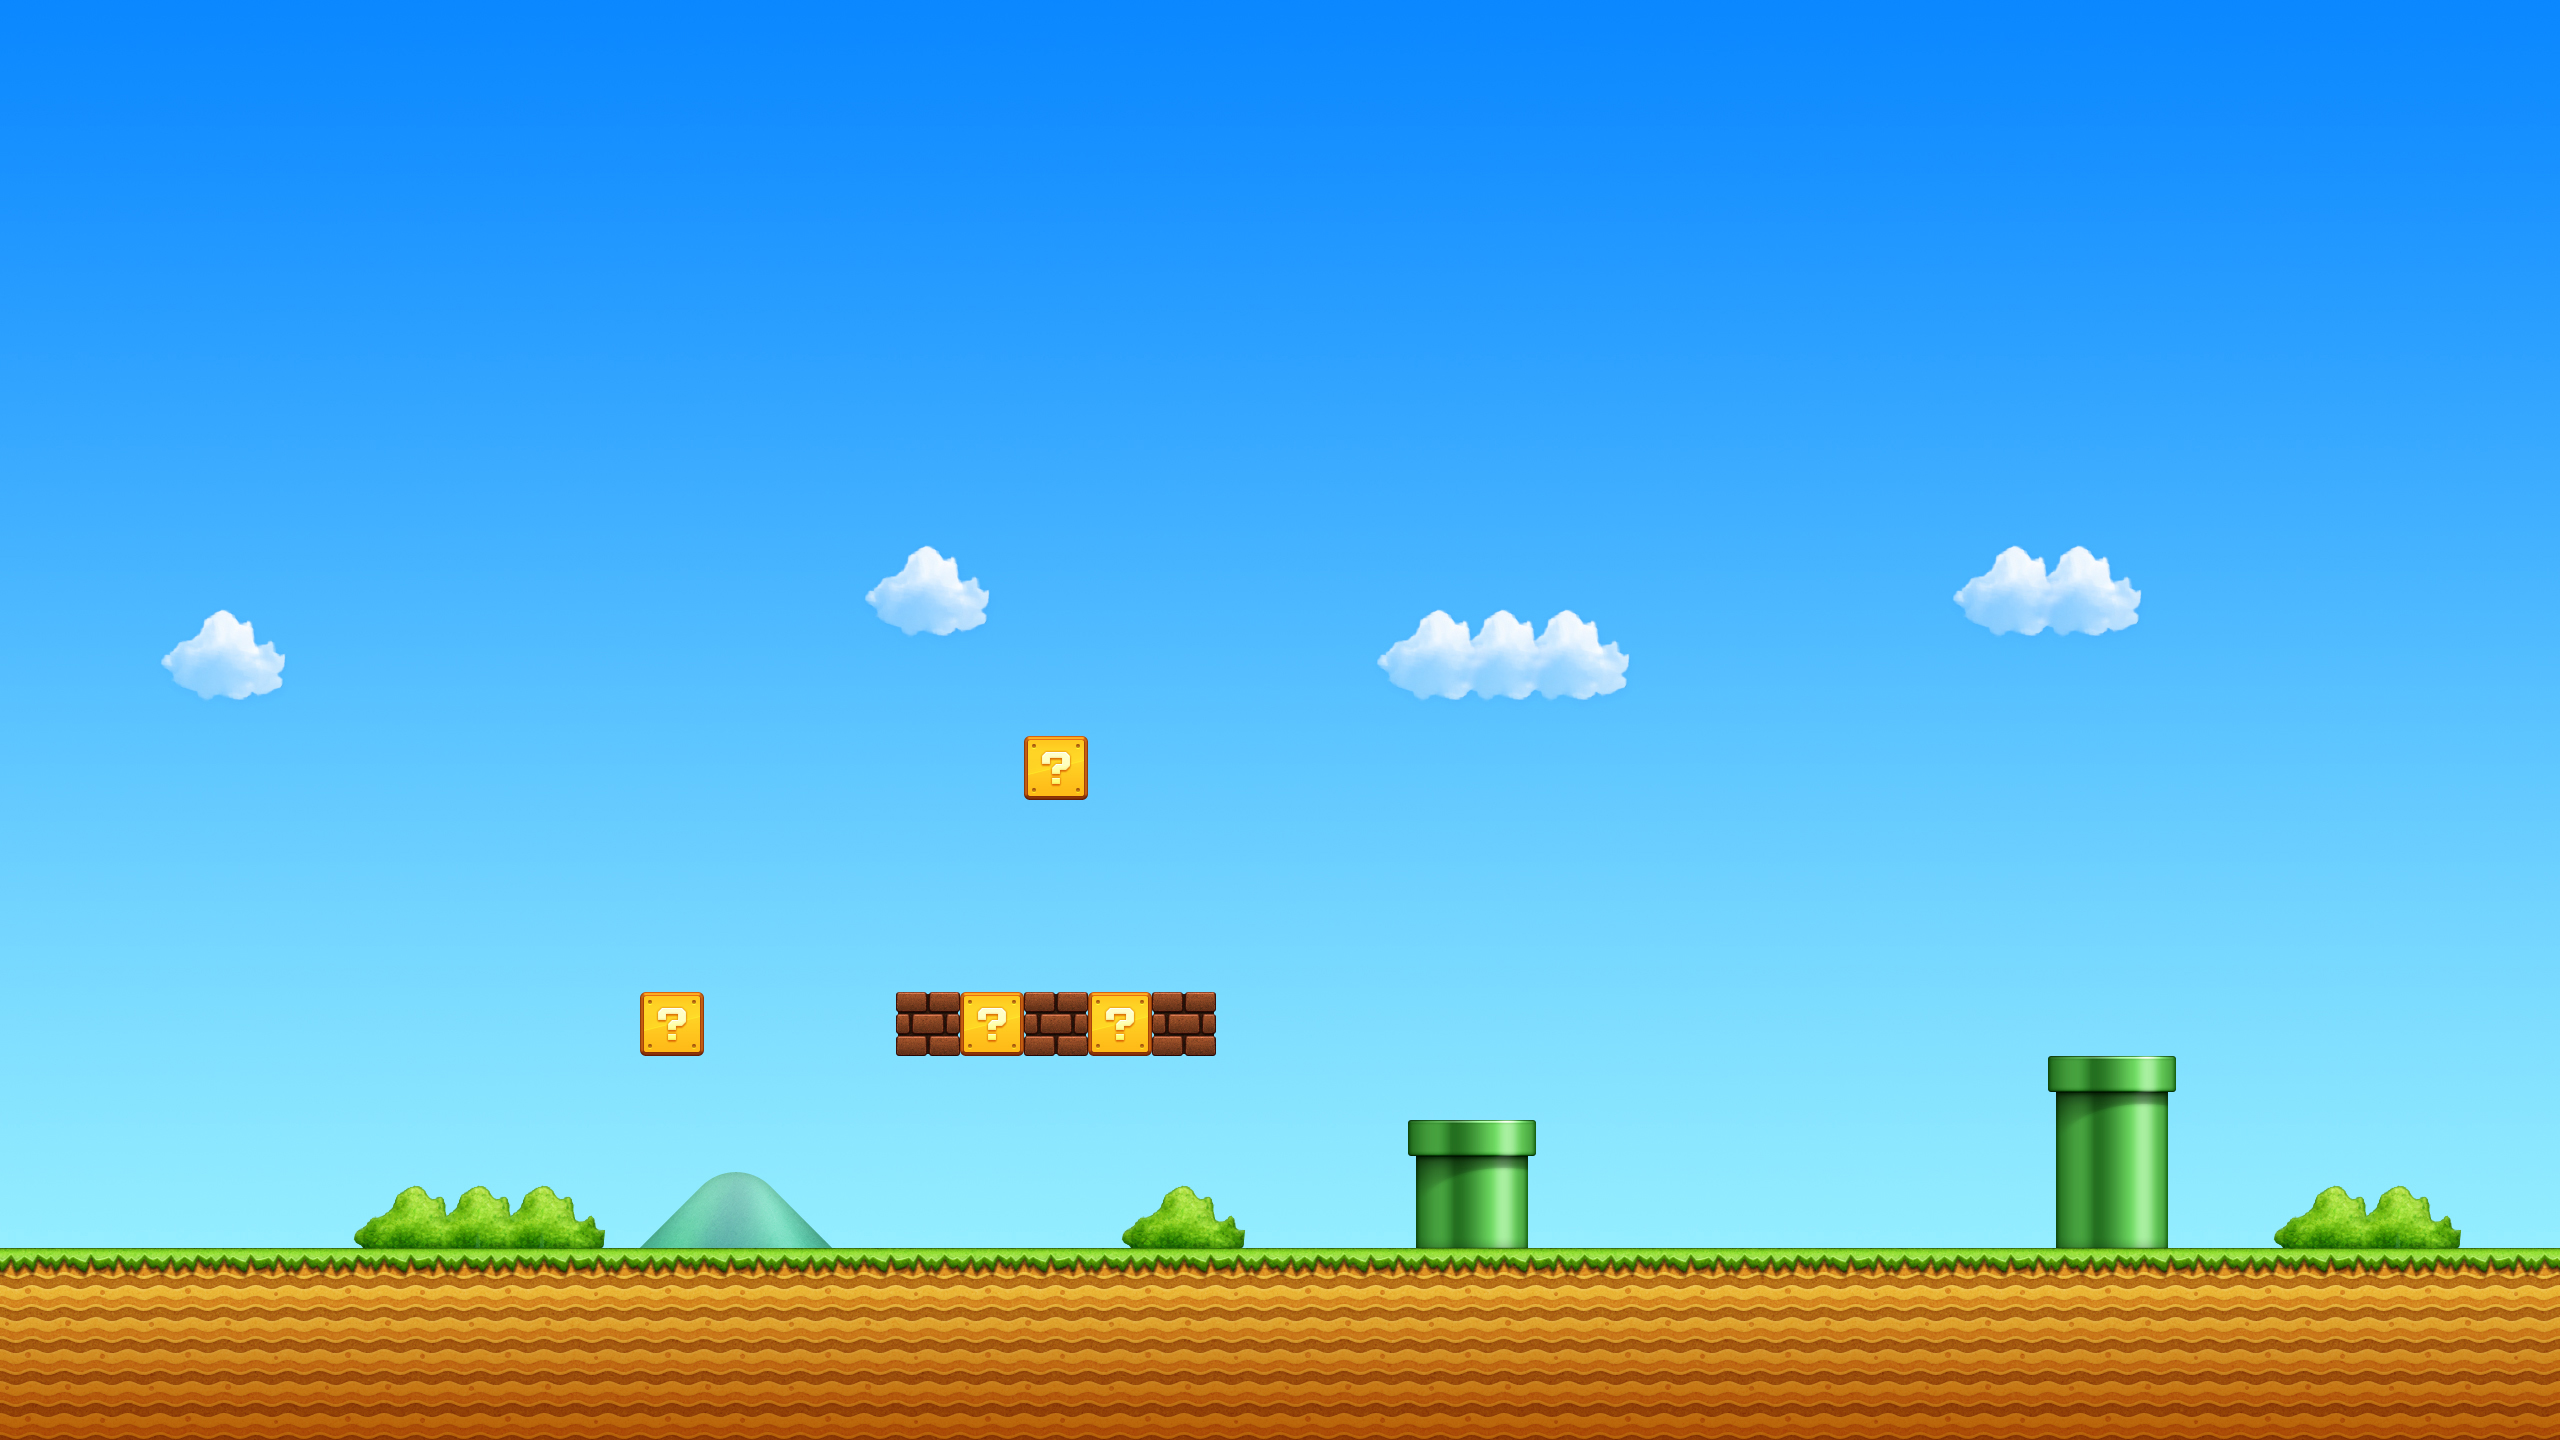
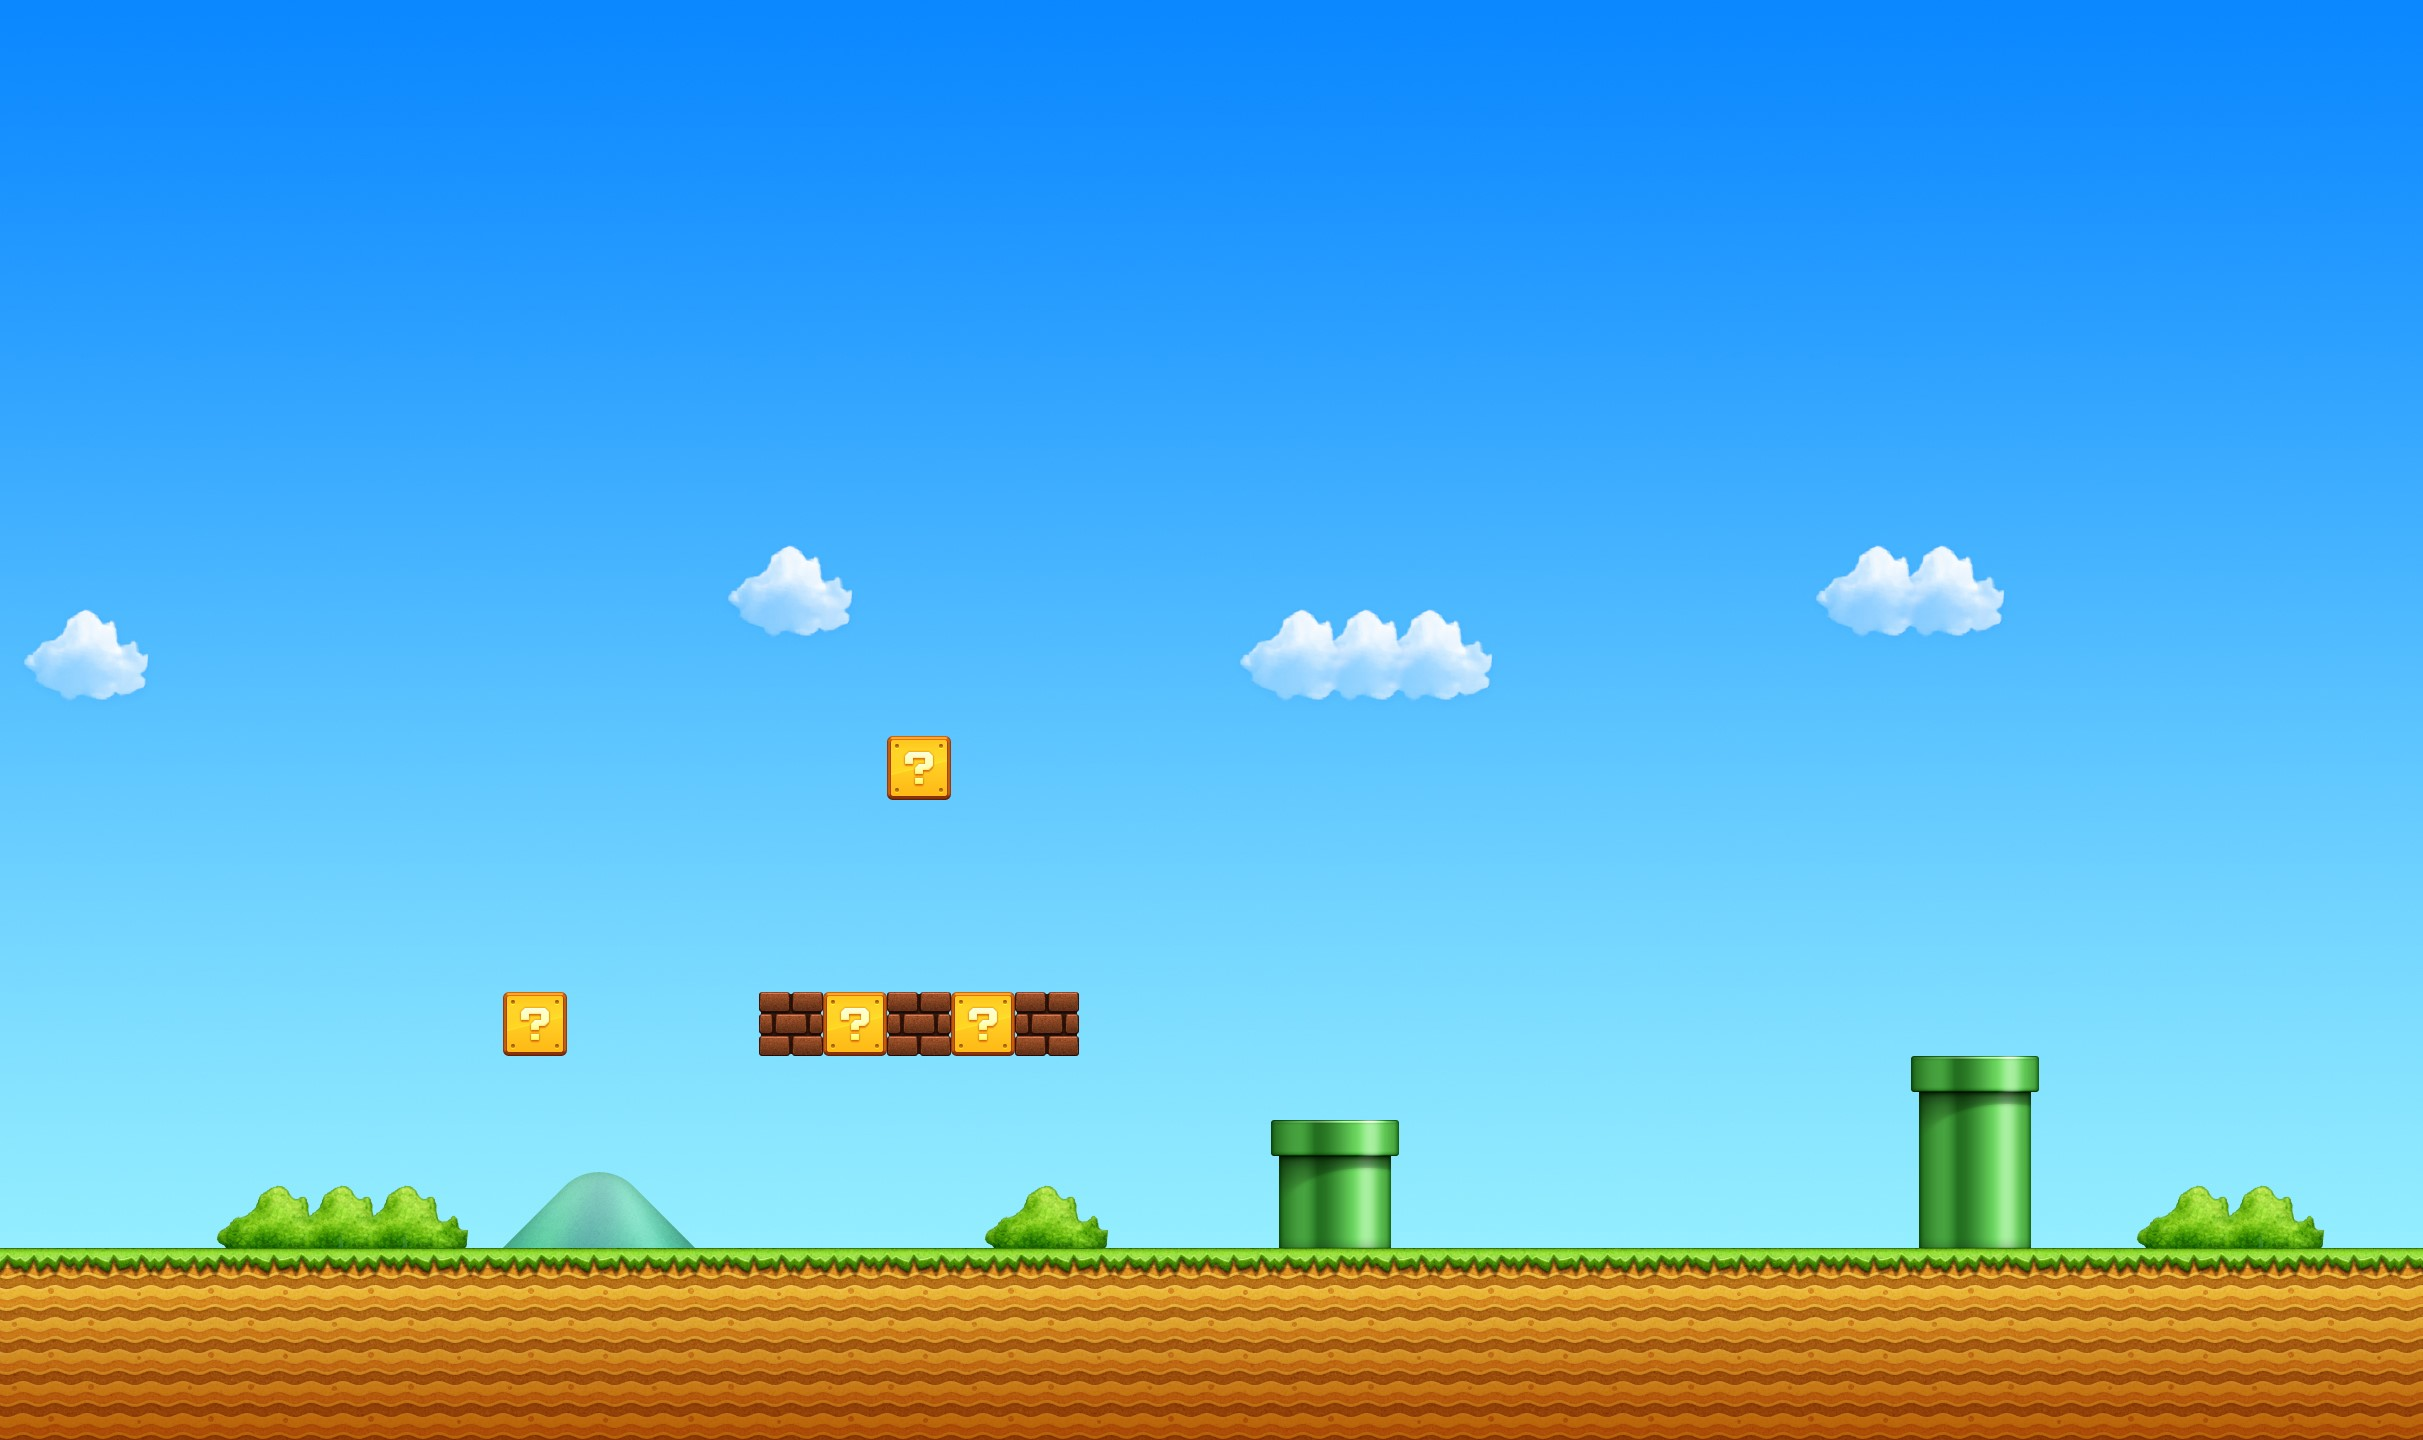
atualizacao-das-imagens

diff --git a/index.html b/index.html
@@ -51,8 +51,16 @@
             
 
             <div class="informacoes-personagem"></div>
-            <h2 class="nome-personagem" id="nome-personagem">Mario</h2>
-            <p class="descricao-personagem" id="descricao-personagem">Descricao sobre o Mario</p>
+            <h2 class="nome-personagem" id="nome-personagem">Mario Bross</h2>
+            <p class="descricao-personagem" id="descricao-personagem">É um encanador italiano corajoso e aventureiro, ele reside no Reino dos Cogumelos, onde frequentemente luta contra o vilão.</p>
+
+            <!-- <p>O irmão mais novo de Mario, Luigi é facilmente reconhecido por sua aparência semelhante à de Mario, com a diferença de que ele usa um macacão verde e um boné verde.</p> -->
+            <!-- <p>Yoshi, atua como um aliado de Mario e Luigi. Ele é conhecido por sua capacidade de engolir inimigos com sua língua e transformá-los em ovos</p> -->
+            <!-- <p>Super Mushroom, ao ser coletado por Mario ou Luigi, o cogumelo vermelho concede a ele um poder especial. Quando come o cogumelo, ele cresce em tamanho, tornando-se o Mario Grande. </p> -->
+            <!-- <p>Princesa Peach,a governante do Reino dos Cogumelos e como o objeto de resgate frequente nas aventuras de Mario. Ela possui habilidades especiais, como o poder de flutuar temporariamente no ar.</p> -->
+            <!-- <p>Koopa Troopa, são tartarugas antropomórficas com cascos coloridos. Existem diferentes variações delas, como as verdes e as vermelhas. As verdes são geralmente inimigos comuns que andam de um lado para o outro em um padrão previsível.</p> -->
+            <!-- <p>Donkey Kong, No jogo original, ele era o antagonista principal, raptando a namorada de Mario, Pauline, e escalando prédios enquanto Mario tentava resgatá-la.</p> -->
+            <!-- <p> Bowser. Ele é o governante do Reino dos Koopas e líder da raça de tartarugas malvadas chamadas Koopa Troopas. Sua principal motivação é sequestrar a Princesa Peach e tomar controle do Reino dos Cogumelos.</p> -->
         </section>
     </main>
     

diff --git a/style.css b/style.css
@@ -15,9 +15,14 @@ body{
  background-color:black ;
 }
 
+.imagem-principal{
+    position: relative;
+    top: 4px;
+}
+
 body::before{
     content: '';
-    background-image: url(/src/img/f.jpg);
+    background-image: url(/src/img/f\ -\ Copia-dois.jpg);
     background-repeat: no-repeat;
     background-size: cover;
     width: 100%;
@@ -53,6 +58,7 @@ body::before{
     align-items: center;
     max-width: 585px;
     gap: 25px;
+    
 }
 
 .selecao-de-personagens .personagens .titulo{
@@ -70,7 +76,7 @@ body::before{
 }
 
 .lista-de-personagens .personagem.selecionado{
-    box-shadow: 0px 0px 24px 5px #6BA742;
+    box-shadow: 0px 0px 24px 5px #f2f2f2;
 }
 
 .personagem-selecionado{
@@ -79,20 +85,22 @@ body::before{
 }
 
 .personagem-selecionado .personagem-grande{
-    width: 430px;
-    height: 430px;
+    width: 450px;
+    height: 450px;
 }
 
 .personagem-selecionado .nome-personagem{
     border-bottom: 2px solid #6BA742;
+    width: 80%;
     letter-spacing: 2px;
     text-transform: uppercase;
+    margin-left: 1em;
 }
 
 .personagem-selecionado .descricao-personagem{
     font-size: 16px;
     line-height: 22px;
     text-align: center;
-    margin-top: 20px;
-    width: 420px;
+    margin-top: 17px;
+    width: 400px;
 }
